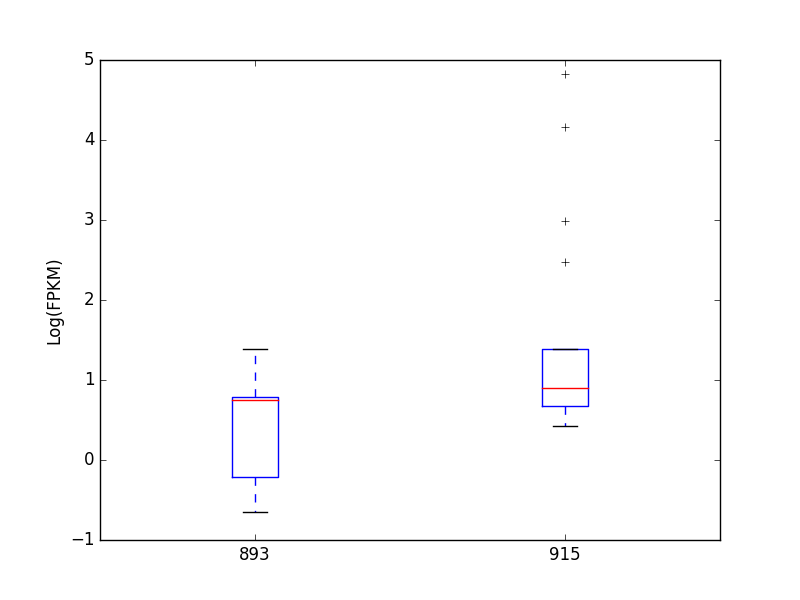
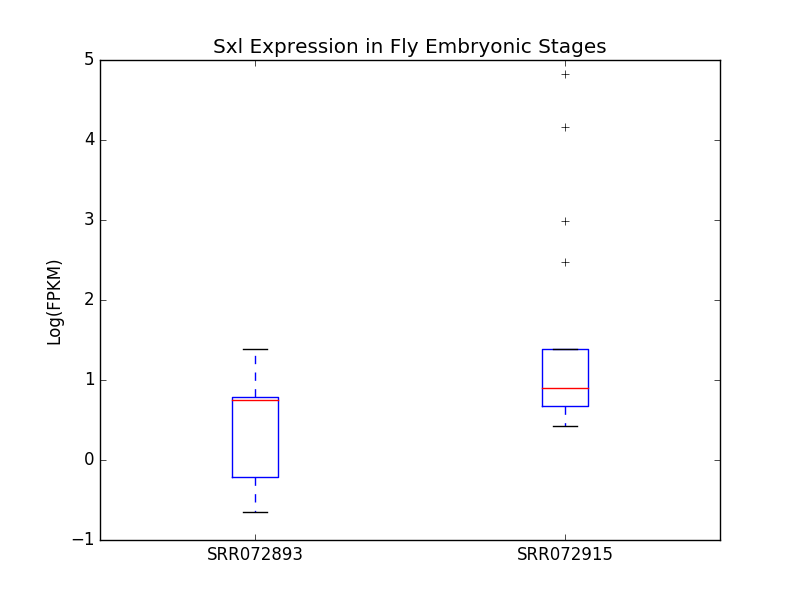
Adding title for boxplot

Changed region(s): [[0.25, 0.06, 0.75, 0.09], [0.25, 0.9, 0.375, 0.93], [0.6562, 0.9, 0.75, 0.93]]

diff --git a/day4-lunch/d4-exercise-1.py b/day4-lunch/d4-exercise-1.py
@@ -29,7 +29,8 @@ print value2
 
 
 plt.figure()
-plt.boxplot([value1, value2],labels = ["893","915"])
+plt.boxplot([value1, value2],labels = ["SRR072893","SRR072915"])
+plt.title("Sxl Expression in Fly Embryonic Stages")
 plt.ylabel("Log(FPKM)")
 plt.savefig("Sxl.png")
 plt.close()
